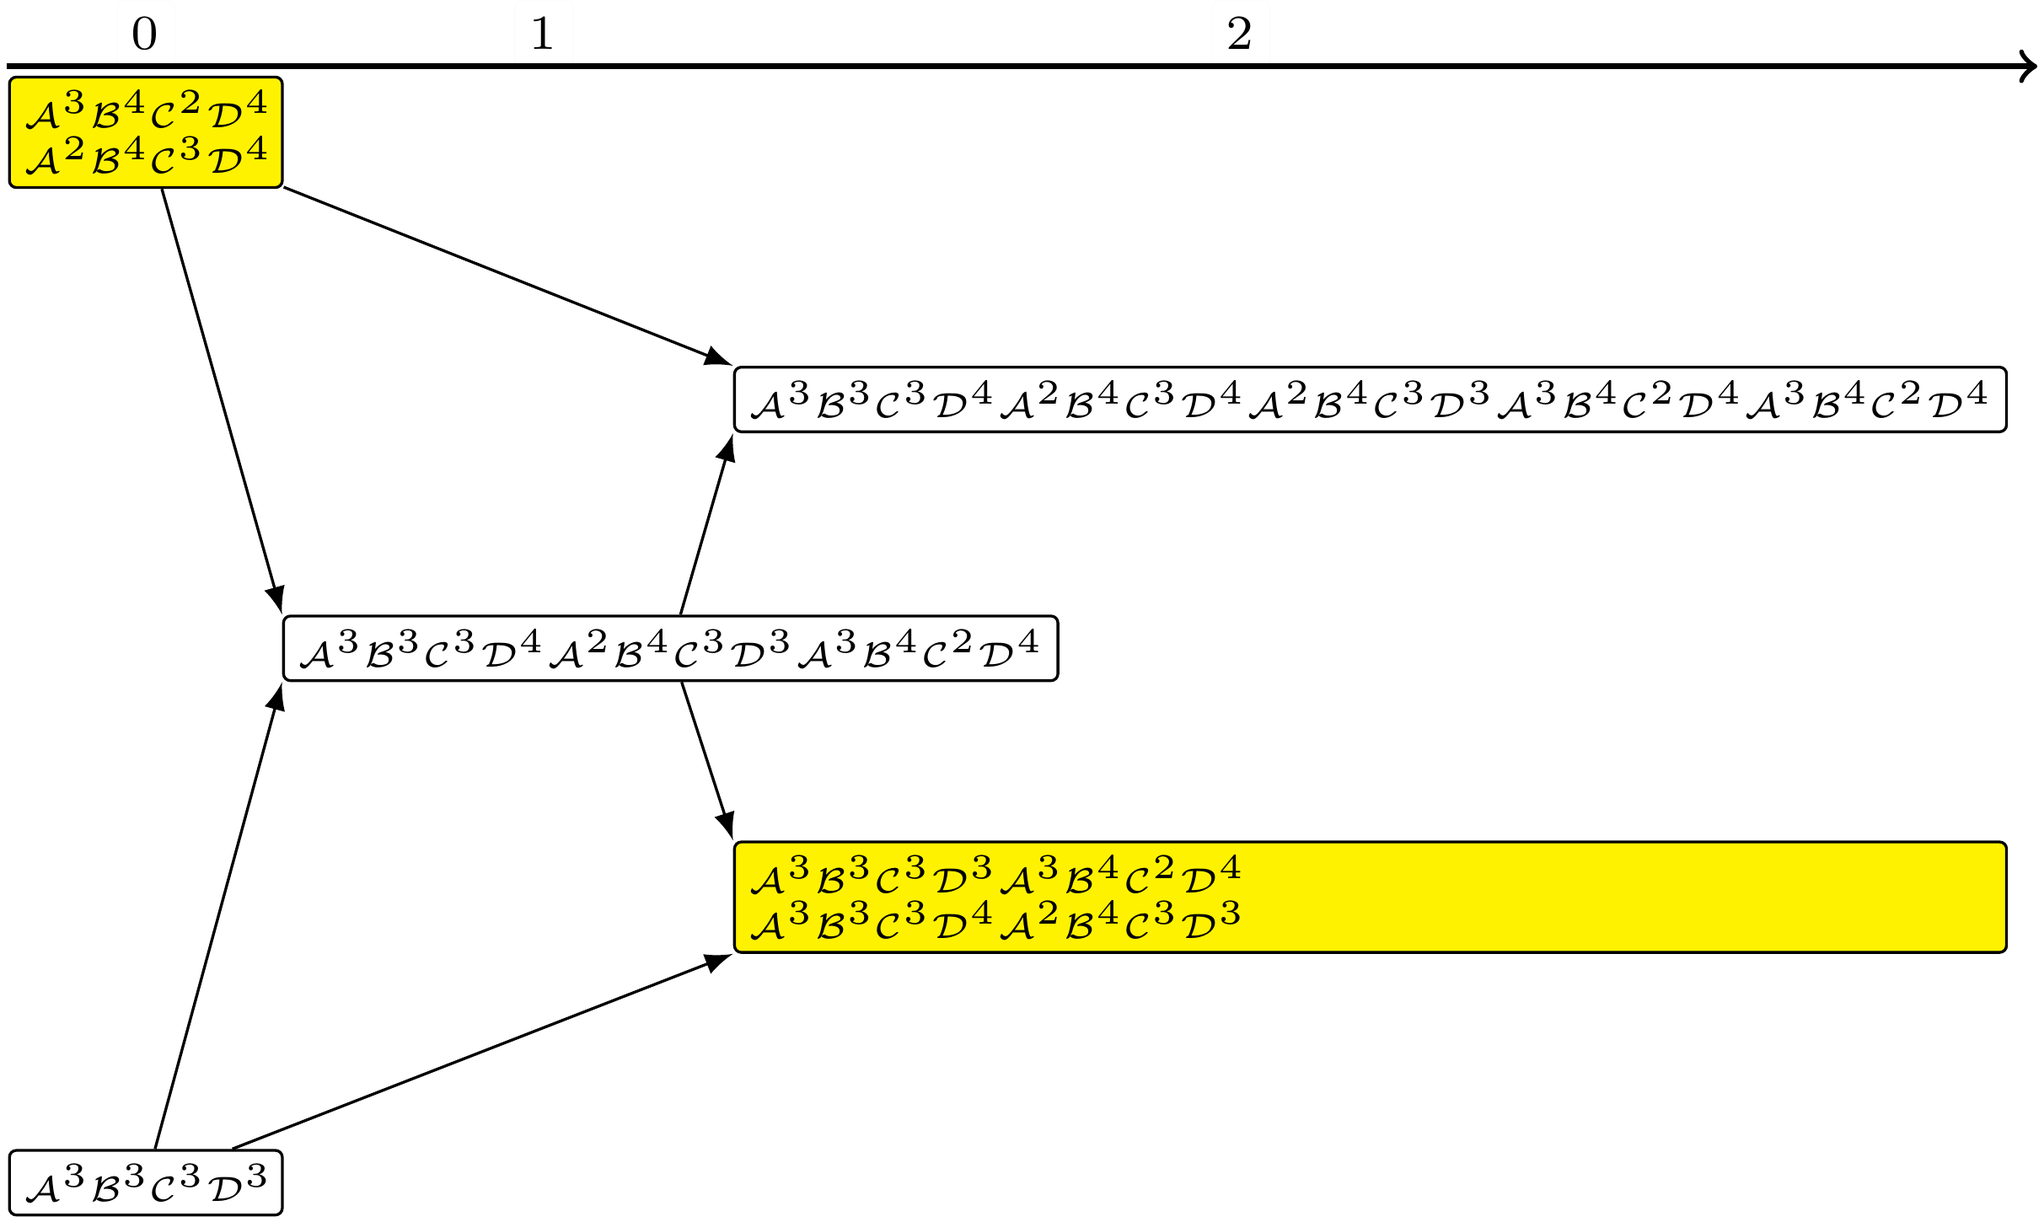
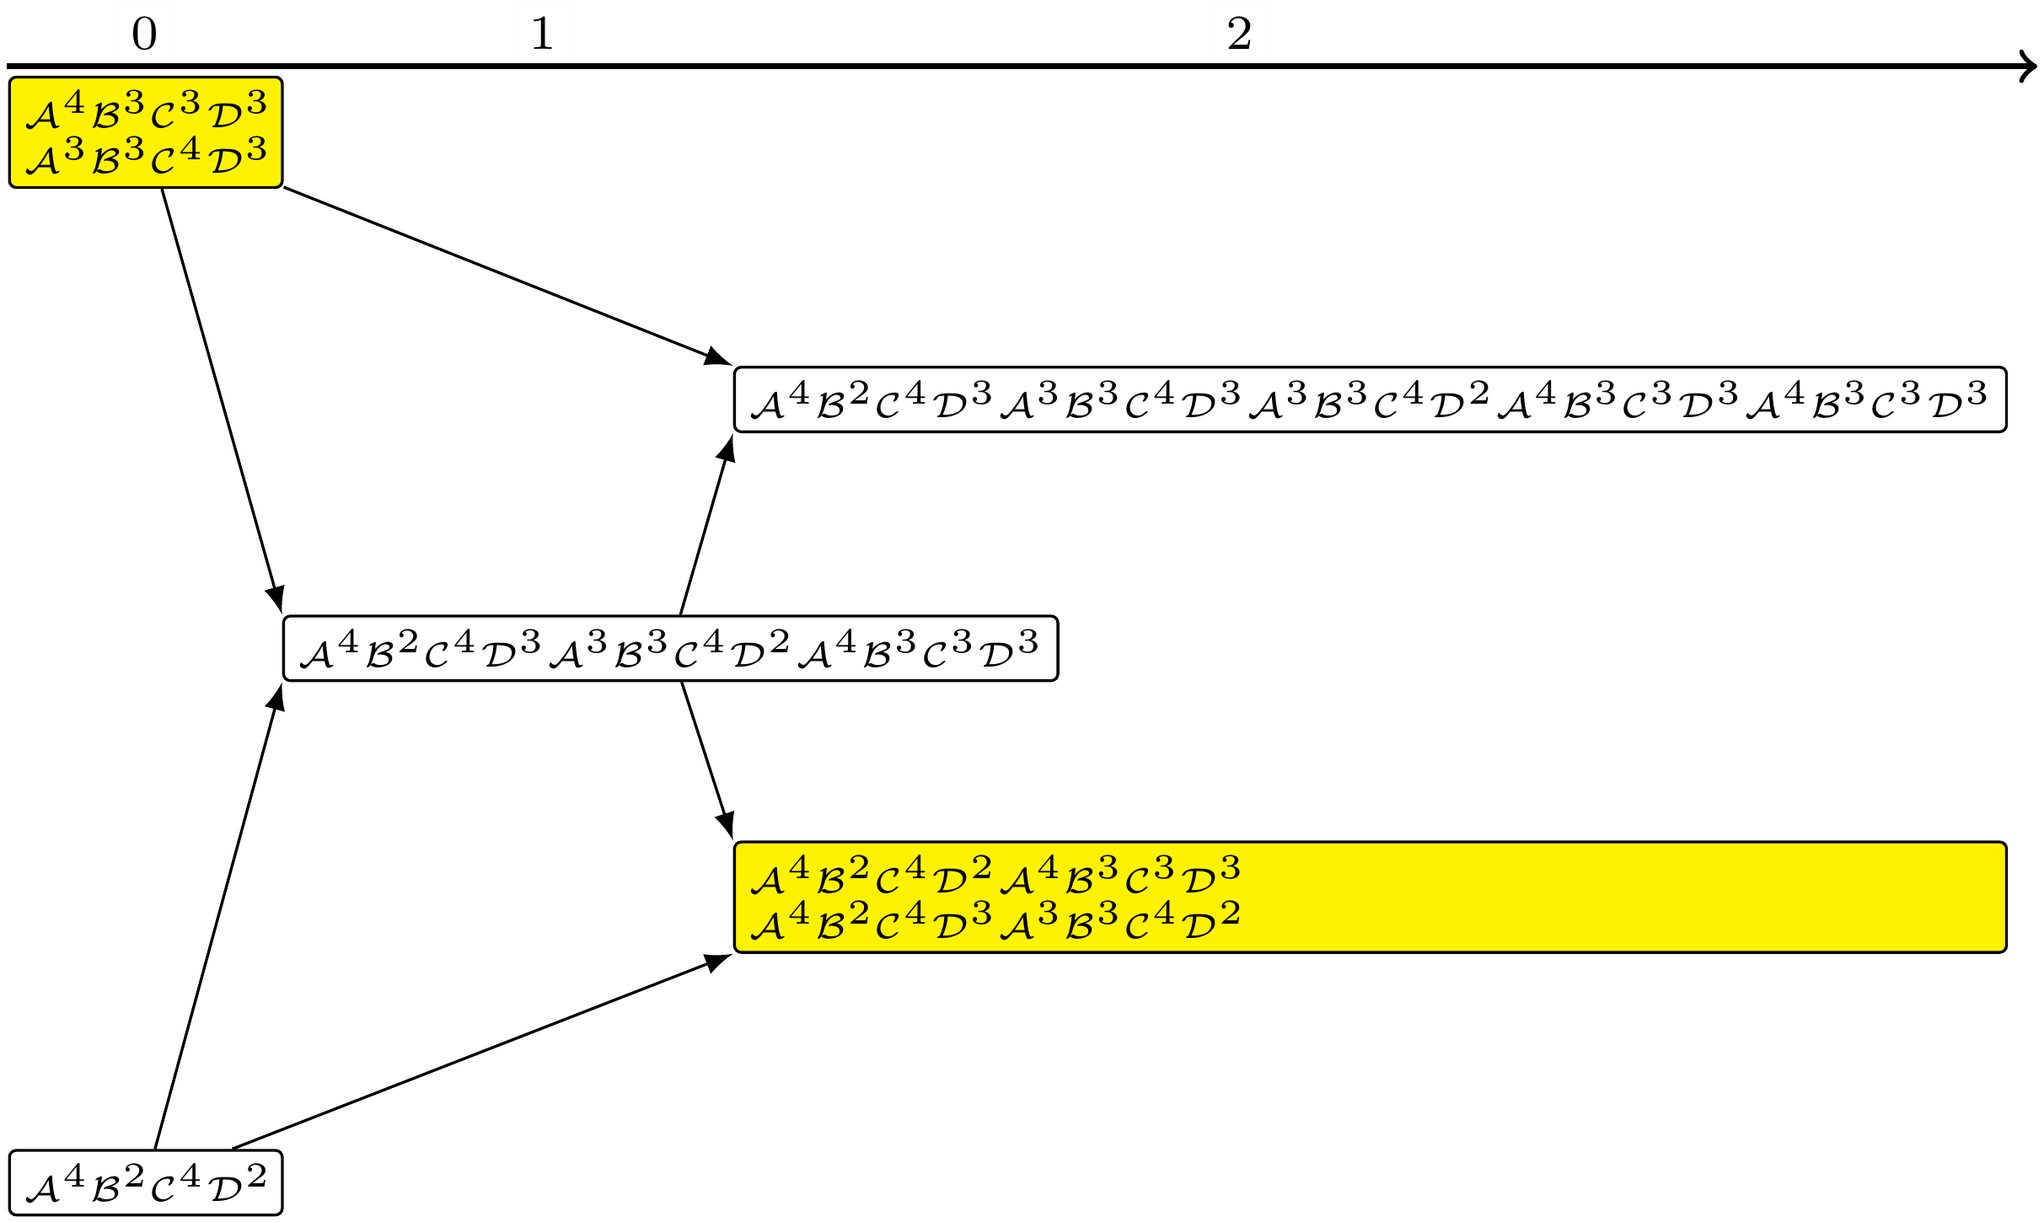
correct mistakes from this morning regarding cycles

diff --git a/Report/Sections/70_Adding/31_description.tex b/Report/Sections/70_Adding/31_description.tex
@@ -2,14 +2,14 @@
 \label{sec:add.add.like}
 
 We start by plotting a 2D period scan of the increasing archetypal model.
-Here we changed $b_L$ to $0.8$ and keep $a_L$ and $g_R\left(\frac{1}{2}\right)$, because the period-adding-like structures are more pronounced at these parameter values.
+Here we changed $b_L$ to $0.8$ and keep $a_L$ and $g_R\left(\frac{1}{2}\right)$, because the \gls{pal} structures are more pronounced at these parameter values.
 \Cref{fig:add.add.like} shows a 2D period scan with these parameters at a corner of the space between chains.
-Here, the parameter region $P^{12}_3$ is in the lower left corner and the parameter region $P^{12}_4$ of the same chain is in the upper right corner.
-In the lower right corner is the parameter region $P^{14}_4$.
+Here, the parameter region $P^{12}_2$ is in the lower left corner and the parameter region $P^{12}_3$ of the same chain is in the upper right corner.
+In the lower right corner is the parameter region $P^{14}_3$.
 
-We will take a closer look at the horizontally \gls{pal} structures between the period regions $P^{14}_4$ and $P^{12}_4$ first.
-Then we will examine the vertically oriented \gls{pal} structures between the regions $P^{12}_3$ and $P^{14}_4$.
-And lastly, we will examine the complex looking structure at the corner.
+We will take a closer look at the horizontally \gls{pal} structures between the parameter regions $P^{14}_3$ and $P^{12}_3$ first.
+Then we will examine the vertically oriented \gls{pal} structures between the parameter regions $P^{12}_2$ and $P^{14}_3$.
+And lastly, we will examine the complex looking structure in the corner between all three ``type A'' parameter regions.
 
 \begin{figure}
 	\centering
@@ -24,11 +24,11 @@ And lastly, we will examine the complex looking structure at the corner.
 
 \subsubsection{Horizontal Period-adding-like Structures}
 
-\Cref{fig:add.add.like.hor.2D} shows a 2D scan of the horizontally oriented \gls{pal} structures between the parameter regions $P^{14}_4$ and $P^{12}_4$.
-We can see two \gls{pal} structures, one between the ``type A'' parameter region $P^{14}_4$ and the hybrid parameter region $\left[P^{14}_4 \mid P^{12}_4\right]$ and one in between the hybrid parameter region $\left[P^{14}_4 \mid P^{12}_4\right]$ and the ``type A'' parameter region $P^{12}_4$.
+\Cref{fig:add.add.like.hor.2D} shows a 2D scan of the horizontally oriented \gls{pal} structures between the parameter regions $P^{14}_3$ and $P^{12}_3$.
+We can see two \gls{pal} structures, one between the ``type A'' parameter region $P^{14}_3$ and the hybrid parameter region $\left[P^{14}_3 \mid P^{12}_3\right]$ and one in between the hybrid parameter region $\left[P^{14}_3 \mid P^{12}_3\right]$ and the ``type A'' parameter region $P^{12}_3$.
 There is a red arrow in the 2D period scan that indicates the parameter range for the 1D period scan in \Cref{fig:add.add.like.hor.1D}.
 
-Looking at the 1D period scan, we can see why the section is called \glsentrylong{pal}.
+Looking at the 1D period scan, one can see why the section is called \glsentrylong{pal}.
 In the middle between the parameter regions associated with the periods $14$ and $13$, we would expect the most pronounced parameter region to be associated with the period $27$.
 Instead, the most pronounced parameter region in-between those parameter regions is associated with the period $40$.
 And the most pronounced parameter region between this parameter region and the parameter region associated with the period $14$, has period $27$ where we would expect period $54$.
@@ -59,11 +59,13 @@ The structure is not just a skewed \gls{pa} structure, as one might think since 
 And also $27 + 13 = 40$ which is associated with the parameter region between the parameter regions associated with the periods $27$ and $13$, respectively.
 We can see that when examining the symbolic sequences associated with the parameter regions in that structure.
 \Cref{fig:add.add.like.hor.tree} shows the Farey-tree with the symbolic sequences of this structure.
-The starting nodes are associated with the parameter regions $P^{14}_4$ and $\left[P^{14}_4 \mid P^{12}_4\right]$
+The starting nodes are associated with the symbolic sequences associated with the parameter regions $P^{14}_3$ and $\left[P^{14}_3 \mid P^{12}_3\right]$, respectively.
 The parameter region associated with the period $27$ is the lowest node in level $2$, which is associated with two coexisting cycles.
-These two cycles, $\A^3\B^4\C^3\D^4\A^3\B^4\C^2\D^4$ and $\A^3\B^4\C^3\D^4\A^2\B^4\C^2\D^4$ could be the result of concatenating the symbolic sequences $A^3\B^4\C^3\D^4$ and $\A^3\B^4\C^2\D^4$, as well as $\A^3\B^4\C^3\D^4$ and $\A^2\B^4\C^2\D^4$ of the parameter regions associated with the periods $14$ and $13$, respectively.
-But the cycle $\A^3\B^4\C^3\D^4\A^2\B^4\C^3\D^4\A^3\B^4\C^2\D^4$ of the parameter region associated with the period $40$ cannot be a result of concatenating any pair of symbolic sequences $\A^3\B^4\C^2\D^4$ and $\A^2\B^4\C^3\D^4$ of the parameter region associated with the period $13$ and $\A^3\B^4\C^3\D^4\A^3\B^4\C^2\D^4$ and $\A^3\B^4\C^3\D^4\A^2\B^4\C^3\D^4$ of the parameter region associated with the period $27$.
+These two cycles, $\A^4\B^3\C^4\D^3\A^4\B^3\C^3\D^3$ and $\A^4\B^3\C^4\D^3\A^3\B^3\C^4\D^3$ could be the result of concatenating the symbolic sequences $A^4\B^3\C^4\D^3$ and $\A^4\B^3\C^3\D^3$, as well as $\A^4\B^3\B^4\D^3$ and $\A^3\B^3\C^4\D^3$ of the parameter regions associated with the periods $14$ and $13$, respectively.
+But the cycle $\A^4\B^3\C^4\D^3\A^3\B^3\B^4\D^3\A^4\B^3\C^3\D^3$ of the parameter region associated with the period $40$ cannot be a result of concatenating any pair of symbolic sequences $\A^4\B^3\C^3\D^3$ and $\A^3\B^3\C^4\D^3$ of the parameter region associated with the period $13$ and $\A^4\B^3\C^4\D^3\A^4\B^3\C^3\D^3$ and $\A^4\B^3\C^4\D^3\A^3\B^3\C^4\D^3$ of the parameter region associated with the period $27$.
 One can see that this is truly no \gls{pa} structure.
+
+\todo{Correct symbolic sequences}
 
 \begin{figure}
 	\centering
@@ -79,8 +81,8 @@ One can see that this is truly no \gls{pa} structure.
 
 Next, we will take a look at the vertically oriented \gls{pal} structures.
 \Cref{fig:add.add.like.vert.2D} shows a 2D period scan of this structure.
-Here, we can also see two \gls{pal} structures, one in-between the parameter regions $P^{12}_3$ and $\left[P^{12}_3 \mid P^{14}_4\right]$ and one in-between the parameter regions $\left[P^{12}_3 \mid P^{14}_4\right]$ and $P^{14}_4$.
-We choose the \gls{pal} structure in-between the parameter regions $P^{12}_3$ and $\left[P^{12}_3 \mid P^{14}_4\right]$ for closer investigation.
+Here, we can also see two \gls{pal} structures, one in-between the parameter regions $P^{12}_2$ and $\left[P^{12}_2 \mid P^{14}_3\right]$ and one in-between the parameter regions $\left[P^{12}_2 \mid P^{14}_3\right]$ and $P^{14}_3$.
+We choose the \gls{pal} structure in-between the parameter regions $P^{12}_2$ and $\left[P^{12}_2 \mid P^{14}_3\right]$ for closer investigation.
 A red arrow marks again the parameter range for the 1D period scan of this \gls{pal} structure in \Cref{fig:add.add.like.vert.1D}.
 
 As before, the periods do not add as we would expect from a \gls{pa} structure.
@@ -128,16 +130,16 @@ One can see that this is again no \gls{pa} structure.
 Finally, we will look at the structure in the corner which \Cref{fig:add.add.like.corn.2D} shows a 2D period scan of.
 Here, we see many \gls{pal} structures.
 These are organized as follows.
-There is one horizontally oriented \gls{pal} structure between the parameter regions $\left[P^{12}_3 \mid P^{14}_4\right]$ and $P^{12}_4$.
-And one horizontally oriented \gls{pal} structure between the parameter region $P^{12}_4$ and every parameter region in the vertically oriented \gls{pal} structure between the parameter regions $P^{12}_3$ and $\left[P^{12}_3 \mid P^{14}_4\right]$.
-Analogously, there is one vertically oriented \gls{pal} structure between the parameter regions $P^{12}_3$ and $\left[P^{14}_4 \mid P^{12}_4\right]$.
-And one vertically oriented \gls{pal} structure between the parameter region $P^{12}_3$ and every parameter region in the horizontally oriented \gls{pal} structure between the parameter regions $P^{14}_4$ and $\left[P^{14}_4 \mid P^{12}_4\right]$.
-Similarly, there is also one horizontally oriented \gls{pal} structure between the parameter region $\left[P^{14}_4 \mid P^{12}_4\right]$ and every parameter region in the vertically oriented \gls{pal} structure between the parameter regions $\left[P^{12}_3 \mid P^{14}_4\right]$ and $P^{14}_4$.
-And one vertically oriented \gls{pal} structure between the parameter region $\left[P^{12}_3 \mid P^{14}_4\right]$ and every parameter region in the horizontally oriented \gls{pal} structure between the parameter regions $P^{14}_4$ and $\left[P^{14}_4 \mid P^{12}_4\right]$.
+There is one horizontally oriented \gls{pal} structure between the parameter regions $\left[P^{12}_2 \mid P^{14}_3\right]$ and $P^{12}_3$.
+And one horizontally oriented \gls{pal} structure between the parameter region $P^{12}_3$ and every parameter region in the vertically oriented \gls{pal} structure between the parameter regions $P^{12}_2$ and $\left[P^{12}_2 \mid P^{14}_3\right]$.
+Analogously, there is one vertically oriented \gls{pal} structure between the parameter regions $P^{12}_2$ and $\left[P^{14}_3 \mid P^{12}_3\right]$.
+And one vertically oriented \gls{pal} structure between the parameter region $P^{12}_2$ and every parameter region in the horizontally oriented \gls{pal} structure between the parameter regions $P^{14}_3$ and $\left[P^{14}_3 \mid P^{12}_3\right]$.
+Similarly, there is also one horizontally oriented \gls{pal} structure between the parameter region $\left[P^{14}_3 \mid P^{12}_3\right]$ and every parameter region in the vertically oriented \gls{pal} structure between the parameter regions $\left[P^{12}_2 \mid P^{14}_3\right]$ and $P^{14}_3$.
+And one vertically oriented \gls{pal} structure between the parameter region $\left[P^{12}_2 \mid P^{14}_3\right]$ and every parameter region in the horizontally oriented \gls{pal} structure between the parameter regions $P^{14}_3$ and $\left[P^{14}_3 \mid P^{12}_3\right]$.
 A very similar phenomenon was discovered by \Citeauthor{tramontana2012period} where there are many \gls{pa} structures between some parameter region and every parameter region of a \gls{pa} structure~\cite{tramontana2012period}.
 
 The 1D period scan in \Cref{fig:add.add.like.corn.1D} shows a 1D period scan of one of the simpler \gls{pal} structures.
-It is the \gls{pal} structure between the parameter regions $P^{12}_3$ and $\left[P^{14}_4 \mid P^{12}_4\right]$ marked with a red arrow in \Cref{fig:add.add.like.corn.2D}.
+It is the \gls{pal} structure between the parameter regions $P^{12}_2$ and $\left[P^{14}_3 \mid P^{12}_3\right]$ marked with a red arrow in \Cref{fig:add.add.like.corn.2D}.
 The diagram looks exactly like the 1D period scan for the vertical \gls{pal} structure in \Cref{fig:add.add.like.vert.1D}.
 Here, the periods also do not add up as we expect them to in \gls{pa} structures.
 

diff --git a/Report/Figures/FareyTrees/Minrep_Adding_larger_Full_vert_left/adding.tex b/Report/Figures/FareyTrees/Minrep_Adding_larger_Full_vert_left/adding.tex
@@ -53,7 +53,7 @@
 		lbl/.style={text width=,draw=none,inner sep=},
 		level/.style={sibling distance=\TreeDiameter/(2^#1),
 				level distance=\LevelDistance+#1\WidthIncrement},
-		level 1/.style={settextwidth=$\A^3\B^4\C^3\D^4\A^3\B^3\C^3\D^4\A^3\B^4\C^3\D^4\A^3\B^4\C^3\D^3\A^3\B^4\C^3\D^4$, level distance=10em},    %,level distance=1cm
+		level 1/.style={settextwidth=$\A^4\B^3\C^4\D^3\A^4\B^2\C^4\D^3\A^4\B^3\C^4\D^3\A^4\B^3\C^4\D^2\A^4\B^3\C^4\D^3$, level distance=10em},    %,level distance=1cm
 		level 2/.style={settextwidth=$(\A^6\B^4\C^5\D^4)^2(\A^5\B^4\C^6\D^4)^2\A^5\B^4\C^5\D^4$, level distance=10em},    %,level distance=1cm
 		edge from parent/.style={}] % don't draw tree edges
 
@@ -63,19 +63,19 @@
 	% ========================================
 
 	\path[widthlevel=-1,setwidth=3.5em] node[name=r,fill=yellow] at (0,.5\NodeHeight)
-	{\tiny$\A^3\B^3\C^3\D^4$\\[-.8em]$\A^3\B^4\C^3\D^3$}
-	node[name=s] at (0,-\TreeDiameter-\NodeHeight) {\tiny$\A^3\B^3\C^3\D^3$};
+	{\tiny$\A^4\B^2\C^4\D^3$\\[-.8em]$\A^4\B^3\C^4\D^2$}
+	node[name=s] at (0,-\TreeDiameter-\NodeHeight) {\tiny$\A^4\B^2\C^4\D^2$};
 
-	\path[settextwidth=$\A^3\B^3\C^3\D^3\A^3\B^4\C^3\D^3\A^3\B^3\C^3\D^4$] node[name=sr] at (1.5 \LevelDistance,-.5\TreeDiameter)
-	{\tiny$\A^3\B^3\C^3\D^3\A^3\B^4\C^3\D^3\A^3\B^3\C^3\D^4$}
-	child{ node{\tiny$\A^3\B^3\C^3\D^3\A^3\B^4\C^3\D^3\A^3\B^4\C^3\D^3\A^3\B^3\C^3\D^4\A^3\B^3\C^3\D^4$}
-			%child{ node[fill=yellow]{\tiny$\A^4\B^3\C^3\D^3\A^3\B^3\C^3\D^3$\\[-.8em]$\A^3\B^3\C^3\D^3\A^3\B^3\C^4\D^3$} }
-			%child{ node{\tiny$(\A^4\B^3\C^3\D^3)^2(\A^3\B^3\C^4\D^3)^2\A^3\B^3\C^3\D^3$} }
+	\path[settextwidth=$\A^4\B^2\C^4\D^2\A^4\B^3\C^4\D^2\A^4\B^2\C^4\D^3$] node[name=sr] at (1.5 \LevelDistance,-.5\TreeDiameter)
+	{\tiny$\A^4\B^2\C^4\D^2\A^4\B^3\C^4\D^2\A^4\B^2\C^4\D^3$}
+	child{ node{\tiny$\A^4\B^2\C^4\D^2\A^4\B^3\C^4\D^2\A^4\B^3\C^4\D^2\A^4\B^2\C^4\D^3\A^4\B^2\C^4\D^3$}
+			%child{ node[fill=yellow]{\tiny$\A^4\B^3\C^4\D^2\A^4\B^2\C^4\D^2$\\[-.8em]$\A^4\B^2\C^4\D^2\A^4\B^2\C^4\D^3$} }
+			%child{ node{\tiny$(\A^4\B^3\C^4\D^2)^2(\A^4\B^2\C^4\D^3)^2\A^4\B^2\C^4\D^2$} }
 		}
 	%---------%
-	child{ node[fill=yellow]{\tiny$\A^3\B^3\C^3\D^3\A^3\B^3\C^3\D^4$\\[-.8em]$\A^3\B^3\C^3\D^3\A^3\B^4\C^3\D^3$}
-			%child{ node{\tiny$\A^4\B^3\C^4\D^3(\A^3\B^3\C^4\D^3)^2(\A^4\B^3\C^3\D^3)^2$} }
-			%child{ node[fill=yellow]{\tiny$\A^4\B^3\C^4\D^3\A^4\B^3\C^3\D^3$\\[-.8em]$\A^4\B^3\C^4\D^3\A^3\B^3\C^4\D^3$} }
+	child{ node[fill=yellow]{\tiny$\A^4\B^2\C^4\D^2\A^4\B^2\C^4\D^3$\\[-.8em]$\A^4\B^2\C^4\D^2\A^4\B^3\C^4\D^2$}
+			%child{ node{\tiny$\A^4\B^3\C^4\D^3(\A^4\B^2\C^4\D^3)^2(\A^4\B^3\C^4\D^2)^2$} }
+			%child{ node[fill=yellow]{\tiny$\A^4\B^3\C^4\D^3\A^4\B^3\C^4\D^2$\\[-.8em]$\A^4\B^3\C^4\D^3\A^4\B^2\C^4\D^3$} }
 		};
 
 	% ========================================

diff --git a/Report/Figures/FareyTrees/Minrep_Adding_larger_Full_hor_lower/adding.tex b/Report/Figures/FareyTrees/Minrep_Adding_larger_Full_hor_lower/adding.tex
@@ -53,7 +53,7 @@
 		lbl/.style={text width=,draw=none,inner sep=},
 		level/.style={sibling distance=\TreeDiameter/(2^#1),
 				level distance=\LevelDistance+#1\WidthIncrement},
-		level 1/.style={settextwidth=$\A^3\B^4\C^3\D^4\A^3\B^3\C^3\D^4\A^3\B^4\C^3\D^4\A^3\B^4\C^3\D^3\A^3\B^4\C^3\D^4$, level distance=10em},    %,level distance=1cm
+		level 1/.style={settextwidth=$\A^4\B^3\C^4\D^3\A^3\B^3\C^4\D^3\A^4\B^3\C^4\D^3\A^4\B^3\C^3\D^3\A^4\B^3\C^4\D^3$, level distance=10em},    %,level distance=1cm
 		level 2/.style={settextwidth=$(\A^6\B^4\C^5\D^4)^2(\A^5\B^4\C^6\D^4)^2\A^5\B^4\C^5\D^4$, level distance=10em},    %,level distance=1cm
 		edge from parent/.style={}] % don't draw tree edges
 
@@ -63,18 +63,17 @@
 	% ========================================
 
 	\path[widthlevel=-1,setwidth=3.5em] node[name=r,fill=yellow] at (0,.5\NodeHeight)
-	{\tiny$\A^3\B^4\C^2\D^4$\\[-.8em]$\A^2\B^4\C^3\D^4$}
-	node[name=s] at (0,-\TreeDiameter-\NodeHeight) {\tiny$\A^3\B^4\C^3\D^4$};
+	{\tiny$\A^4\B^3\C^3\D^3$\\[-.8em]$\A^3\B^3\C^4\D^3$}
+	node[name=s] at (0,-\TreeDiameter-\NodeHeight) {\tiny$\A^4\B^3\C^4\D^3$};
 
-	\path[settextwidth=$\A^3\B^4\C^3\D^4\A^2\B^4\C^3\D^4\A^3\B^4\C^2\D^4$] node[name=sr] at (1.5 \LevelDistance,-.5\TreeDiameter)
-	{\tiny$\A^3\B^4\C^3\D^4\A^2\B^4\C^3\D^4\A^3\B^4\C^2\D^4$}
-	child{ node{\tiny$\A^3\B^4\C^3\D^4\A^2\B^4\C^3\D^4\A^2\B^4\C^3\D^4\A^3\B^4\C^2\D^4\A^3\B^4\C^2\D^4$}
+	\path[settextwidth=$\A^4\B^3\C^4\D^3\A^3\B^3\C^4\D^3\A^4\B^3\C^3\D^3$] node[name=sr] at (1.5 \LevelDistance,-.5\TreeDiameter)
+	{\tiny$\A^4\B^3\C^4\D^3\A^3\B^3\C^4\D^3\A^4\B^3\C^3\D^3$}
+	child{ node{\tiny$\A^4\B^3\C^4\D^3\A^3\B^3\C^4\D^3\A^3\B^3\C^4\D^3\A^4\B^3\C^3\D^3\A^4\B^3\C^3\D^3$}
 			%child{ node[fill=yellow]{\tiny$\A^4\B^3\C^3\D^3\A^3\B^3\C^3\D^3$\\[-.8em]$\A^3\B^3\C^3\D^3\A^3\B^3\C^4\D^3$} }
 			%child{ node{\tiny$(\A^4\B^3\C^3\D^3)^2(\A^3\B^3\C^4\D^3)^2\A^3\B^3\C^3\D^3$} }
 		}
 	%---------%
-	child{ node[fill=yellow]{\tiny$\A^3\B^4\C^3\D^4\A^3\B^4\C^2\D^4$\\[-.8em]$\A^3\B^4\C^3\D^4\A^2\B^4\C^3\D^4$}
-			%child{ node{\tiny$\A^4\B^3\C^4\D^3(\A^3\B^3\C^4\D^3)^2(\A^4\B^3\C^3\D^3)^2$} }
+	child{ node[fill=yellow]{\tiny$\A^4\B^3\C^4\D^3\A^4\B^3\C^3\D^3$\\[-.8em]$\A^4\B^3\C^4\D^3\A^3\B^3\C^4\D^3$} %child{ node{\tiny$\A^4\B^3\C^4\D^3(\A^3\B^3\C^4\D^3)^2(\A^4\B^3\C^3\D^3)^2$} }
 			%child{ node[fill=yellow]{\tiny$\A^4\B^3\C^4\D^3\A^4\B^3\C^3\D^3$\\[-.8em]$\A^4\B^3\C^4\D^3\A^3\B^3\C^4\D^3$} }
 		};
 

diff --git a/Report/Figures/FareyTrees/Minrep_Adding_larger_Full_corn_vert/adding.tex b/Report/Figures/FareyTrees/Minrep_Adding_larger_Full_corn_vert/adding.tex
@@ -53,7 +53,7 @@
 		lbl/.style={text width=,draw=none,inner sep=},
 		level/.style={sibling distance=\TreeDiameter/(2^#1),
 				level distance=\LevelDistance+#1\WidthIncrement},
-		level 1/.style={settextwidth=$\A^3\B^4\C^3\D^4\A^3\B^3\C^3\D^4\A^3\B^4\C^3\D^4\A^3\B^4\C^3\D^3\A^3\B^4\C^3\D^4$, level distance=10em},    %,level distance=1cm
+		level 1/.style={settextwidth=$\A^4\B^3\C^4\D^3\A^3\B^3\C^4\D^3\A^4\B^3\C^4\D^3\A^4\B^3\C^3\D^3\A^4\B^3\C^4\D^3$, level distance=10em},    %,level distance=1cm
 		level 2/.style={settextwidth=$(\A^6\B^4\C^5\D^4)^2(\A^5\B^4\C^6\D^4)^2\A^5\B^4\C^5\D^4$, level distance=10em},    %,level distance=1cm
 		edge from parent/.style={}] % don't draw tree edges
 
@@ -63,17 +63,17 @@
 	% ========================================
 
 	\path[widthlevel=-1,setwidth=3.5em] node[name=r,fill=yellow] at (0,.5\NodeHeight)
-	{\tiny$\A^3\B^4\C^2\D^4$\\[-.8em]$\A^2\B^4\C^3\D^4$}
-	node[name=s] at (0,-\TreeDiameter-\NodeHeight) {\tiny$\A^3\B^3\C^3\D^3$};
+	{\tiny$\A^4\B^3\C^3\D^3$\\[-.8em]$\A^3\B^3\C^4\D^3$}
+	node[name=s] at (0,-\TreeDiameter-\NodeHeight) {\tiny$\A^4\B^2\C^4\D^2$};
 
-	\path[settextwidth=$\A^3\B^4\C^3\D^4\A^2\B^4\C^3\D^4\A^3\B^4\C^2\D^4$] node[name=sr] at (1.5 \LevelDistance,-.5\TreeDiameter)
-	{\tiny$\A^3\B^3\C^3\D^4\A^2\B^4\C^3\D^3\A^3\B^4\C^2\D^4$}
-	child{ node{\tiny$\A^3\B^3\C^3\D^4\A^2\B^4\C^3\D^4\A^2\B^4\C^3\D^3\A^3\B^4\C^2\D^4\A^3\B^4\C^2\D^4$}
+	\path[settextwidth=$\A^4\B^3\C^4\D^3\A^3\B^3\C^4\D^3\A^4\B^3\C^3\D^3$] node[name=sr] at (1.5 \LevelDistance,-.5\TreeDiameter)
+	{\tiny$\A^4\B^2\C^4\D^3\A^3\B^3\C^4\D^2\A^4\B^3\C^3\D^3$}
+	child{ node{\tiny$\A^4\B^2\C^4\D^3\A^3\B^3\C^4\D^3\A^3\B^3\C^4\D^2\A^4\B^3\C^3\D^3\A^4\B^3\C^3\D^3$}
 			%child{ node[fill=yellow]{\tiny$\A^4\B^3\C^3\D^3\A^3\B^3\C^3\D^3$\\[-.8em]$\A^3\B^3\C^3\D^3\A^3\B^3\C^4\D^3$} }
 			%child{ node{\tiny$(\A^4\B^3\C^3\D^3)^2(\A^3\B^3\C^4\D^3)^2\A^3\B^3\C^3\D^3$} }
 		}
 	%---------%
-	child{ node[fill=yellow]{\tiny$\A^3\B^3\C^3\D^3\A^3\B^4\C^2\D^4$\\[-.8em]$\A^3\B^3\C^3\D^4\A^2\B^4\C^3\D^3$}
+	child{ node[fill=yellow]{\tiny$\A^4\B^2\C^4\D^2\A^4\B^3\C^3\D^3$\\[-.8em]$\A^4\B^2\C^4\D^3\A^3\B^3\C^4\D^2$}
 			%child{ node{\tiny$\A^4\B^3\C^4\D^3(\A^3\B^3\C^4\D^3)^2(\A^4\B^3\C^3\D^3)^2$} }
 			%child{ node[fill=yellow]{\tiny$\A^4\B^3\C^4\D^3\A^4\B^3\C^3\D^3$\\[-.8em]$\A^4\B^3\C^4\D^3\A^3\B^3\C^4\D^3$} }
 		};
